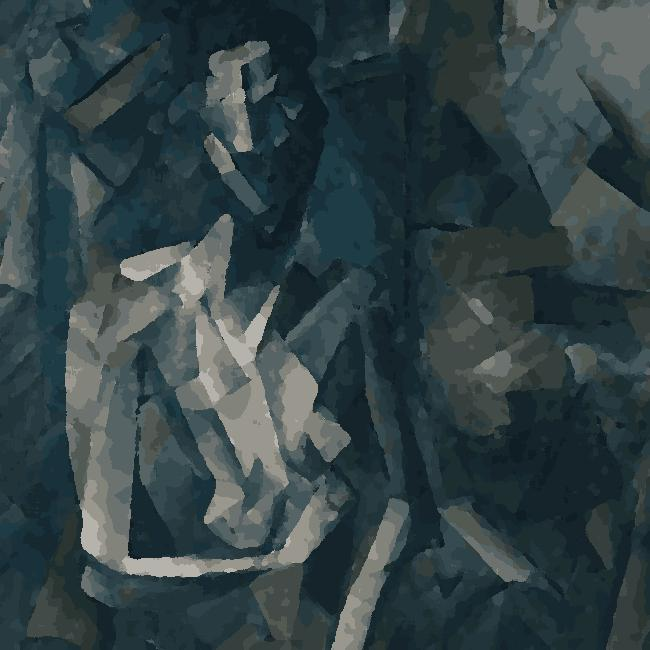
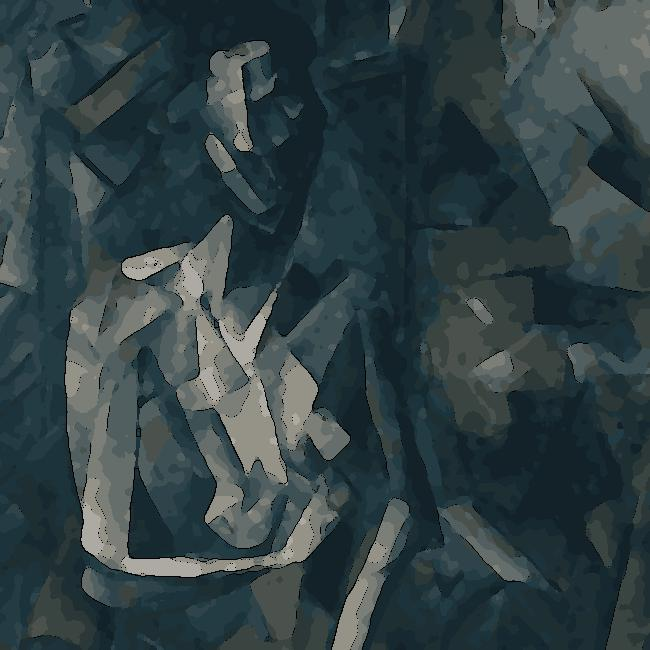
Add edges - re-work image processing to use colors instead of indices

diff --git a/pbnify.py b/pbnify.py
@@ -8,41 +8,37 @@ import dominant_cluster
 import image_utils
 import process
 
-def get_nearest(palette, color):
-    return np.argmin(np.sum(((palette.astype(np.int32) - color))**2, axis=1))
-
-def image_to_simple_matrix(image, palette):
-    return np.apply_along_axis(lambda col: get_nearest(palette, col), 2, image)
-
 def simple_matrix_to_image(mat, palette):
     simple_mat_flat = np.array([[col for col in palette[index]] for index in mat.flatten()])
     return simple_mat_flat.reshape(mat.shape + (3,))
 
-def PBNify(image_path, clusters=20):
+def PBNify(image_path, clusters=20, pre_blur=True):
     image = image_utils.load_image(image_path, resize=False)
+    if pre_blur:
+        image = process.blur_image(image)
 
-    t0 = time()
     # Must pass FP32 data to get_dominant_colors since faiss does not support uint8
-    palette = dominant_cluster.get_dominant_colors(image,
+    dominant_colors, quantized_labels, _ = dominant_cluster.get_dominant_colors(image,
                                                    n_clusters=clusters,
                                                    use_gpu=True,
-                                                   plot=False)
-    print("dominant_cluster", time() - t0)
+                                                   plot=True)
+    # quantized_image = dominant_colors[quantized_labels].reshape(image.shape)
+    # image_utils.save_plot(quantized_image, "quantized.jpg")
 
-    t0 = time()
-    mat = image_to_simple_matrix(image, palette).astype(np.uint8)
-    print("image_to_simple_matrix", time() - t0)
+    smooth_labels = process.smoothen(quantized_labels.reshape(image.shape[:-1]))
+    smooth_image = dominant_colors[smooth_labels].reshape(image.shape)
+    # image_utils.save_plot(smooth_image, "smooth.jpg")
 
-    t0 = time()
-    smooth_mat, outline_image = process.img_process(mat)
-    print("process.img_process", time() - t0)
-    t0 = time()
-    pbn_image = np.array(simple_matrix_to_image(smooth_mat, palette))
-    print("simple_matrix_to_image", time() - t0)
+    edge_image = process.edge_mask(smooth_image)
+    # image_utils.save_plot(edge_image, "edge.jpg")
+
+    pbn_image = process.merge_mask(smooth_image, edge_image)
+    outline_image = process.outline(smooth_image)
 
     return pbn_image, outline_image
 
-
-pbn_image, outline_image = PBNify("images/picasso.jpg")
+t0 = time()
+pbn_image, outline_image = PBNify("images/picasso.jpg", clusters=15)
+print("PBNify: ", time() - t0, "secs")
 image_utils.save_plot(pbn_image, "images/picasso_PBN.jpg")
 image_utils.save_plot(outline_image, "images/picasso_PBNOutline.jpg")

diff --git a/dominant_cluster.py b/dominant_cluster.py
@@ -42,55 +42,24 @@ def compute_cluster_assignment(centroids, data):
     return labels.ravel()
 
 
-def centroid_histogram(clt):
-    num_labels = np.arange(0, len(np.unique(clt.labels_)) + 1)
-
-    (hist, _) = np.histogram(clt.labels_, bins=num_labels)
-    hist = hist.astype(np.float32)
-    hist /= hist.sum()
-
-    return hist
-
-
 def get_dominant_colors(image, n_clusters=10, use_gpu=True, plot=True):
-    image = image.reshape((image.shape[0] * image.shape[1], 3)).astype(np.float32)
+    flat_image = image.reshape(
+        (image.shape[0] * image.shape[1], 3)).astype(np.float32)
 
     if use_gpu:
-        centroids = kmeans_faiss(image, n_clusters)
-        labels = compute_cluster_assignment(centroids, image)
-        centroids = centroids.astype("uint8")
-
-        if plot:
-            counts = Counter(labels).most_common()
-            total = sum(n for _, n in counts)
-            centroid_size_tuples = [(centroids[k], val/total) for k, val in counts]
+        centroids = kmeans_faiss(flat_image, n_clusters)
+        labels = compute_cluster_assignment(centroids, flat_image).astype(np.uint8)
+        centroids = centroids.astype(np.uint8)
     else:
-        clt = KMeans(n_clusters=n_clusters)
-        clt.fit(image)
+        clt = KMeans(n_clusters=n_clusters).fit(flat_image)
         centroids = clt.cluster_centers_.astype(np.uint8)
+        labels = clt.labels_.astype(np.uint8)
 
-        if plot:
-            hist = centroid_histogram(clt)
-            centroid_size_tuples = list(zip(centroids, hist))
-            centroid_size_tuples.sort(key=lambda x: x[1], reverse=True)
     if plot:
+        counts = Counter(labels).most_common()
+        centroid_size_tuples = [(centroids[k], val / len(labels))
+                                for k, val in counts]
         bar_image = image_utils.bar_colors(centroid_size_tuples)
-        return centroids, bar_image
+        return centroids, labels, bar_image
 
-    return centroids
-
-
-# import time
-# t0 = time.time()
-# dominant_colors, bar = get_dominant_colors("images/dancing.jpg", n_clusters=10)
-# t1 = time.time()
-# print(dominant_colors)
-# image_utils.save_plot(bar, "test1.png")
-# print("k-Means runtime: %.3f s" % (t1 - t0))
-
-# t0 = time.time()
-# dominant_colors, bar = get_dominant_colors("images/dancing.jpg", n_clusters=10, use_gpu=False)
-# t1 = time.time()
-# print(dominant_colors)
-# image_utils.save_plot(bar, "test.png")
-# print("k-Means runtime: %.3f s" % (t1 - t0))
+    return centroids, labels

diff --git a/process.py b/process.py
@@ -1,6 +1,8 @@
+#! /usr/bin/env python3
 from copy import deepcopy
 from collections import Counter
 import numpy as np
+import cv2
 
 def get_most_frequent_vicinity_value(mat, x, y, xyrange):
     ymax, xmax = mat.shape
@@ -10,9 +12,12 @@ def get_most_frequent_vicinity_value(mat, x, y, xyrange):
 
     return np.argmax(counts)
 
-def smoothen(mat):
+def smoothen(mat, filter_size=4):
     ymax, xmax = mat.shape
-    flat_mat = np.array([get_most_frequent_vicinity_value(mat, x, y, 4) for y in range(0, ymax) for x in range(0, xmax)])
+    flat_mat = np.array([
+        get_most_frequent_vicinity_value(mat, x, y, filter_size)
+        for y in range(0, ymax) for x in range(0, xmax)
+    ])
 
     return flat_mat.reshape(mat.shape)
 
@@ -26,15 +31,15 @@ def are_neighbors_same(mat, x, y):
         xx = x + xRel[i]
         yy = y + yRel[i]
         if xx >= 0 and xx < width and yy >= 0 and yy < height:
-            if mat[yy][xx] != val :
+            if (mat[yy][xx] != val).all():
                 return False
     return True
 
 def outline(mat):
-    ymax, xmax = mat.shape
+    ymax, xmax, _ = mat.shape
     line_mat = np.array([255 if are_neighbors_same(mat, x, y) else 0 for y in range(0, ymax) for x in range(0, xmax)], dtype=np.uint8)
 
-    return line_mat.reshape(mat.shape)
+    return line_mat.reshape((ymax, xmax))
 
 def getRegion(mat, cov, x, y):
     covered = deepcopy(cov)
@@ -121,15 +126,16 @@ def getLabelLocs(mat):
 
     return labelLocs
 
-def img_process(mat):
+def edge_mask(image, line_size=3, blur_value=9):
+    gray = cv2.cvtColor(image, cv2.COLOR_RGB2GRAY)
+    gray_blur = cv2.medianBlur(gray, blur_value)
+    edges = cv2.adaptiveThreshold(gray_blur, 255, cv2.ADAPTIVE_THRESH_MEAN_C,
+                                  cv2.THRESH_BINARY, line_size, blur_value)
 
-    # Smoothen image
-    smooth_mat = smoothen(mat)
+    return edges
 
-    # Identify color regions
-    # labelLocs = getLabelLocs(smooth_mat)
+def merge_mask(image, mask):
+    return cv2.bitwise_and(image, image, mask=mask)
 
-    # Drawing outline
-    line_mat = outline(smooth_mat)
-
-    return smooth_mat, line_mat
+def blur_image(image, blur_d=5):
+    return cv2.bilateralFilter(image, d=blur_d, sigmaColor=200, sigmaSpace=200)
